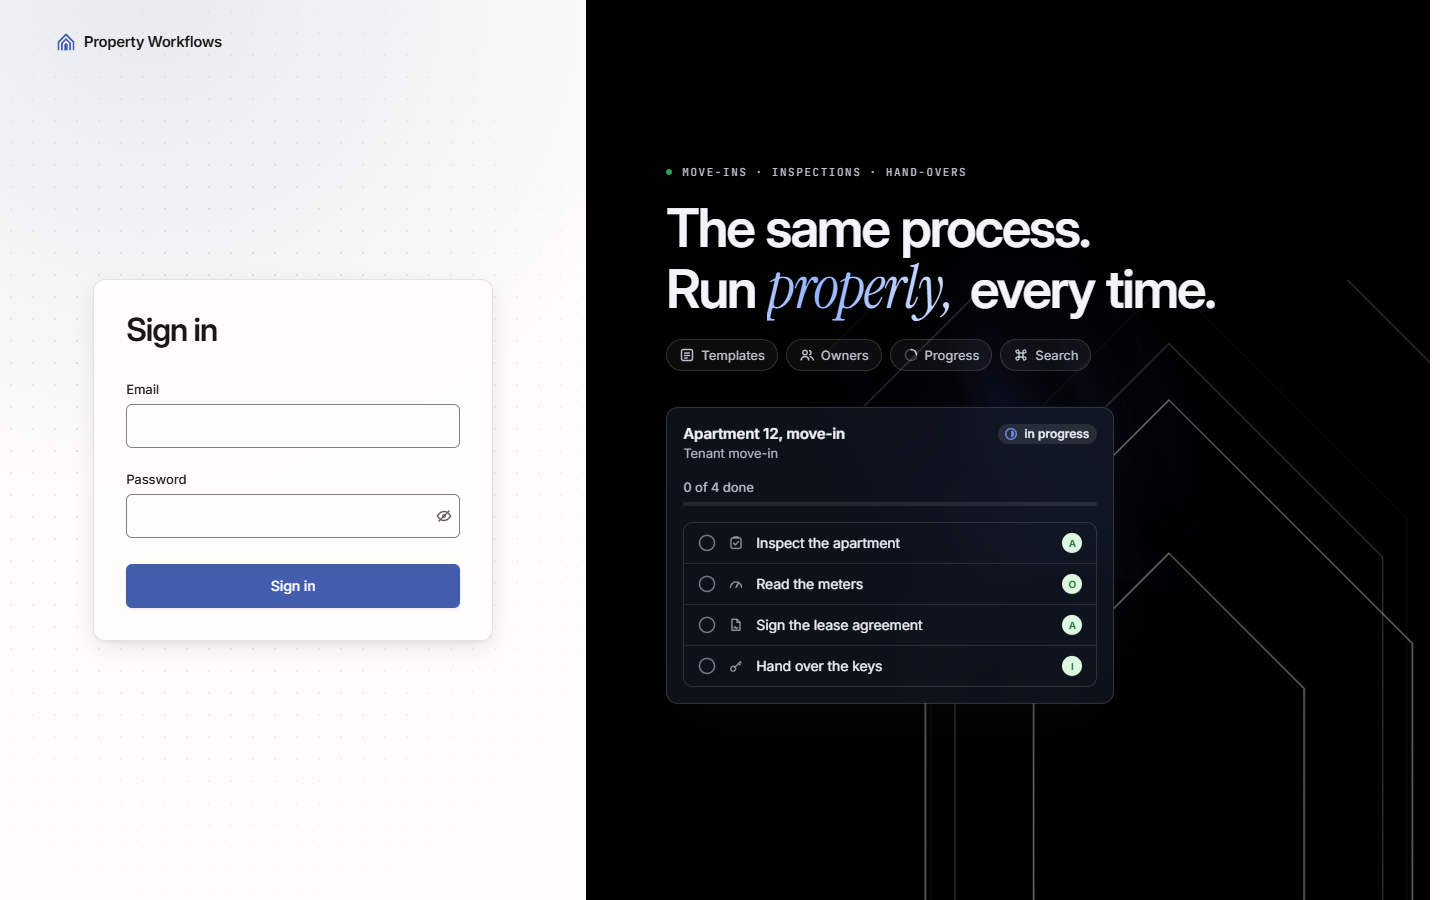
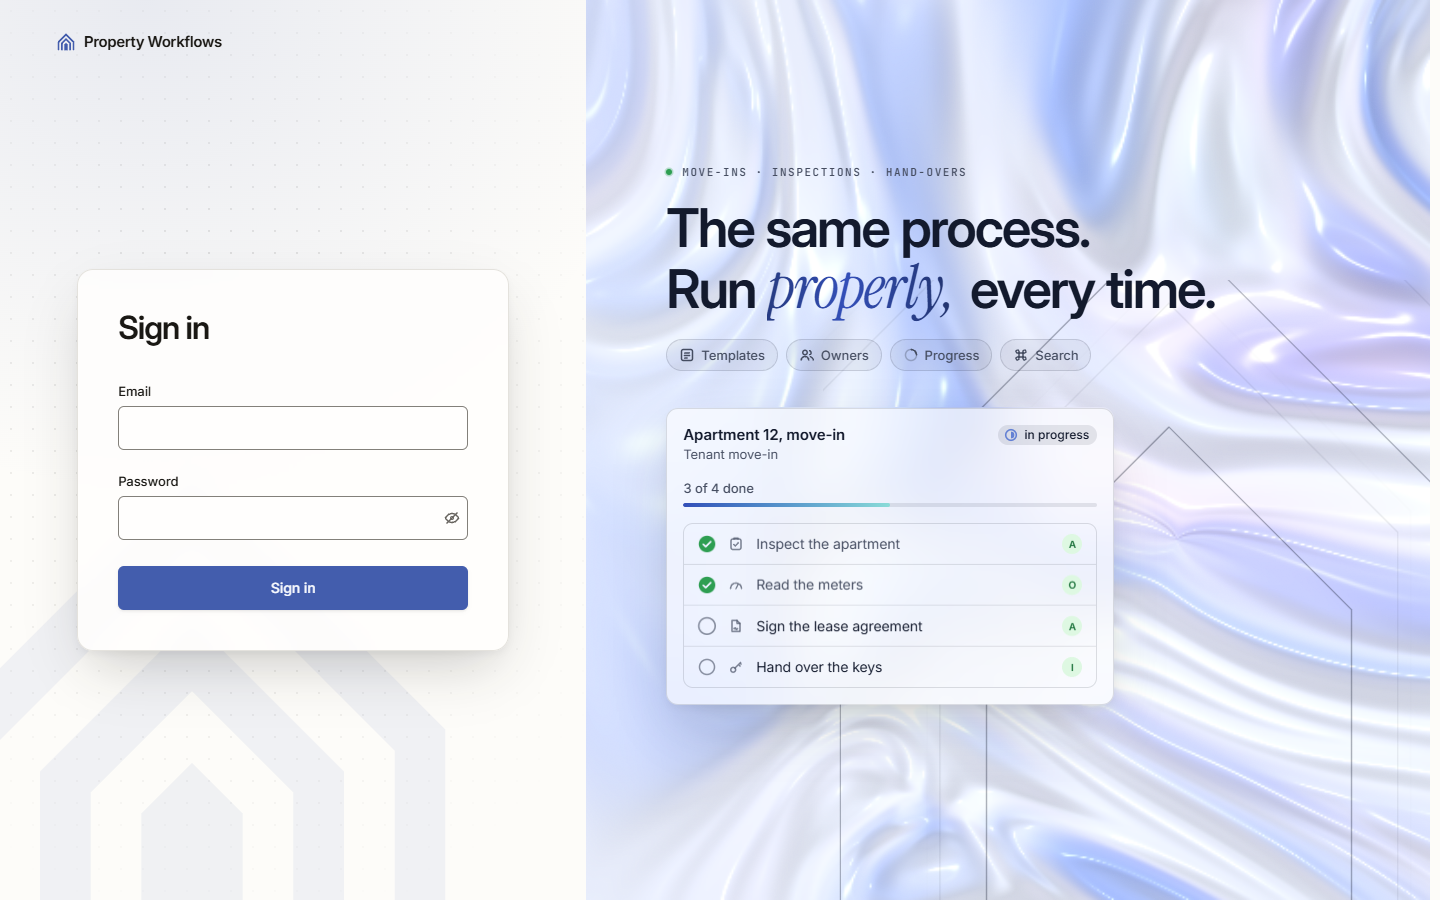
Реалізація: світла сцена входу, водяний знак на лівій панелі, оновлені знімки входу
- токени --stage*: світла тема — світла сцена (пастельні перламутрові хвилі, темний текст), темна — як раніше; контраст у check:contrast
- hero-shader: світлий режим за яскравістю --stage
- вхід: картка 27rem, великий напівпрозорий знак-«відлуння» за карткою
- DESIGN.md: опис сцени й таблиця контрасту

diff --git a/src/components/ui/hero-shader.tsx b/src/components/ui/hero-shader.tsx
@@ -27,6 +27,7 @@ uniform float uIntro;
 uniform vec2 uPtr;
 uniform vec2 uVel;
 uniform vec3 uClick;
+uniform float uLight;
 uniform vec3 uBase;
 uniform vec3 uA;
 uniform vec3 uB;
@@ -108,18 +109,31 @@ void main() {
   vec3 col = mix(uBase, uA, smoothstep(-0.25, 0.85, f) * 0.9);
   col = mix(col, uB, smoothstep(0.05, 0.95, r.x) * 0.5);
   col = mix(col, uC, smoothstep(0.35, 1.1, q.y) * 0.28);
-  col *= 0.42 + 0.95 * diff;
-  col += mix(uA, uC, 0.5) * spec * 0.55;
-  col += uB * rim * 0.35;
+  if (uLight > 0.5) {
+    // Світла сцена: м'яка пастельна «шовкова» поверхня; тінь і відблиск ледь помітні, краї й ліва частина під текстом тануть до основи.
+    col *= 0.84 + 0.22 * diff;
+    col += vec3(1.0) * spec * 0.32;
+    col += uB * rim * 0.12;
+    col += (uA + uB) * 0.5 * 0.05 * smoothstep(0.55, 0.0, length(d));
+    col += vec3(1.0) * ring * 0.25;
+    float vigL = 1.0 - 0.55 * smoothstep(0.3, 1.1, length(uv - vec2(0.55, 0.5)));
+    col = mix(uBase, col, vigL * mix(0.5, 1.0, smoothstep(0.0, 0.85, uv.x)));
+    col = mix(uBase, col, smoothstep(0.0, 1.0, uIntro * 1.6 - length(uv - 0.5) * 1.1));
+  } else {
+    col *= 0.42 + 0.95 * diff;
+    col += mix(uA, uC, 0.5) * spec * 0.55;
+    col += uB * rim * 0.35;
 
-  // Світіння курсора й хвилі
-  col += (uA + uB) * 0.5 * 0.14 * smoothstep(0.55, 0.0, length(d));
-  col += mix(uA, uC, 0.5) * ring * 0.55;
+    // Світіння курсора й хвилі
+    col += (uA + uB) * 0.5 * 0.14 * smoothstep(0.55, 0.0, length(d));
+    col += mix(uA, uC, 0.5) * ring * 0.55;
 
-  // Віньєтка, затемнення під текстом і вступна поява від центру
-  float vig = 1.0 - 0.62 * smoothstep(0.3, 1.1, length(uv - vec2(0.55, 0.5)));
-  col *= vig * mix(0.7, 1.0, smoothstep(0.0, 0.85, uv.x));
-  col *= smoothstep(0.0, 1.0, uIntro * 1.6 - length(uv - 0.5) * 1.1);
+    // Віньєтка, затемнення під текстом і вступна поява від центру
+    float vig = 1.0 - 0.62 * smoothstep(0.3, 1.1, length(uv - vec2(0.55, 0.5)));
+    col *= vig * mix(0.7, 1.0, smoothstep(0.0, 0.85, uv.x));
+    col *= smoothstep(0.0, 1.0, uIntro * 1.6 - length(uv - 0.5) * 1.1);
+
+  }
 
   gl_FragColor = vec4(col, 1.0);
 }
@@ -210,7 +224,9 @@ export function HeroShader({ playing, speed = 1, className }: { playing: boolean
     probe.width = probe.height = 1;
     const ctx = probe.getContext("2d", { willReadFrequently: true });
     if (ctx) {
-      gl.uniform3fv(u("uBase"), readToken("--stage", ctx));
+      const base = readToken("--stage", ctx);
+      gl.uniform1f(u("uLight"), 0.2126 * base[0] + 0.7152 * base[1] + 0.0722 * base[2] > 0.5 ? 1 : 0);
+      gl.uniform3fv(u("uBase"), base);
       gl.uniform3fv(u("uA"), readToken("--stage-glow-1", ctx));
       gl.uniform3fv(u("uB"), readToken("--stage-glow-2", ctx));
       gl.uniform3fv(u("uC"), readToken("--stage-glow-3", ctx));

diff --git a/src/app/globals.css b/src/app/globals.css
@@ -58,17 +58,17 @@
   }
 }
 
-/* Сцена: темна поверхня hero на сторінці входу. В обох темах однакова — це «кінематографічна» вітрина, а не тло роботи. */
+/* Сцена hero входу. Світла тема — світла сцена (бліда лавандова основа, пастельні хвилі, темний текст), темна — кінематографічна. */
 :root {
-  --stage: oklch(0.145 0.035 268);
-  --stage-foreground: oklch(0.97 0.008 268);
-  --stage-muted: oklch(0.80 0.02 268);
-  --stage-card: oklch(0.24 0.035 268 / 0.55);
-  --stage-border: oklch(1 0 0 / 0.14);
-  --stage-accent: oklch(0.78 0.12 268);
-  --stage-glow-1: oklch(0.52 0.18 268);
-  --stage-glow-2: oklch(0.50 0.20 325);
-  --stage-glow-3: oklch(0.60 0.12 192);
+  --stage: oklch(0.955 0.02 268);
+  --stage-foreground: oklch(0.22 0.04 268);
+  --stage-muted: oklch(0.42 0.035 268);
+  --stage-card: oklch(1 0 0 / 0.62);
+  --stage-border: oklch(0.25 0.04 268 / 0.14);
+  --stage-accent: oklch(0.47 0.17 268);
+  --stage-glow-1: oklch(0.74 0.13 268);
+  --stage-glow-2: oklch(0.78 0.12 325);
+  --stage-glow-3: oklch(0.84 0.08 192);
 }
 
 /* --------------------------------------------------------------------------
@@ -231,6 +231,15 @@
 
 
     --weight-body: 420;
+    --stage: oklch(0.145 0.035 268);
+    --stage-foreground: oklch(0.97 0.008 268);
+    --stage-muted: oklch(0.80 0.02 268);
+    --stage-card: oklch(0.24 0.035 268 / 0.55);
+    --stage-border: oklch(1 0 0 / 0.14);
+    --stage-accent: oklch(0.78 0.12 268);
+    --stage-glow-1: oklch(0.52 0.18 268);
+    --stage-glow-2: oklch(0.50 0.20 325);
+    --stage-glow-3: oklch(0.60 0.12 192);
   }
 }
 

diff --git a/src/app/login/page.tsx b/src/app/login/page.tsx
@@ -34,12 +34,17 @@ export default async function LoginPage({ searchParams }: PageProps<"/login">) {
           className="pointer-events-none absolute inset-0 -z-10 bg-[radial-gradient(color-mix(in_oklab,var(--foreground)_14%,transparent)_1px,transparent_1.2px)] [background-size:22px_22px] [mask-image:radial-gradient(75%_60%_at_40%_45%,var(--foreground),transparent)]"
         />
 
+        <LogoMark
+          aria-hidden="true"
+          className="pointer-events-none absolute -bottom-36 -left-28 -z-10 size-[38rem] text-primary/[0.07]"
+        />
+
         <Logo className="animate-ui-reveal" />
 
-        <div className="mx-auto flex w-full max-w-[25rem] flex-1 flex-col justify-center py-10">
+        <div className="mx-auto flex w-full max-w-[27rem] flex-1 flex-col justify-center py-10">
           <div
             style={{ "--reveal-delay": "120ms" } as CSSProperties}
-            className="animate-ui-reveal flex flex-col gap-8 rounded-xl border border-border bg-card/85 p-8 shadow-md backdrop-blur-sm"
+            className="animate-ui-reveal flex flex-col gap-9 rounded-2xl border border-border bg-card/85 p-10 shadow-lg backdrop-blur-sm"
           >
             <h1 className="text-[2rem] font-semibold leading-9 tracking-[-0.03em]">Sign in</h1>
             <LoginForm action={login} serverError={message} />

diff --git a/DESIGN.md b/DESIGN.md
@@ -10,7 +10,7 @@
 
 Інтерфейс для менеджерів і адміністраторів нерухомості: вони щодня запускають шаблони, ведуть задачі й дивляться, де застряг запуск. Основне місце роботи — робочий стіл, тому щільність як у Linear: рядки 32–44 px, контроли 32 px, мало рамок, структура відчувається, а не малюється. Тон: **спокійний, діловий, теплий, уважний**. Нейтралі теплі (відтінок 80–85), акцент — приглушений indigo (відтінок 268), що майже протилежний теплим сірим і тому читається чисто. Уникаємо: кричущих градієнтів на робочих екранах, емодзі як маркерів, сирих кольорів, пастельного «розмитого» тла замість змісту.
 
-Єдиний навмисно «кінематографічний» екран — вхід: темна сцена зі шовковим WebGL-шейдером, «ехо» даху з логотипу і карткою, у якій чекліст сам виконується. Це перша мить продукту. Усередині рух стриманий: 120–240 мс, ease-out, без перельоту на кольорі й прозорості. Сторінка з'являється з легким підйомом (240 мс), лічильники на головній «набираються» від нуля, кільце й смужка прогресу домальовуються, списки з'являються каскадом (перші 8, по 24 мс), `Select` закривається 140 мс. Усе зникає за `prefers-reduced-motion`. Тема — за системою (`prefers-color-scheme`), перемикача немає.
+Єдиний навмисно «кінематографічний» екран — вхід: сцена зі шовковим WebGL-шейдером (світла в світлій темі, темна в темній), «ехо» даху з логотипу і карткою, у якій чекліст сам виконується. Це перша мить продукту. Усередині рух стриманий: 120–240 мс, ease-out, без перельоту на кольорі й прозорості. Сторінка з'являється з легким підйомом (240 мс), лічильники на головній «набираються» від нуля, кільце й смужка прогресу домальовуються, списки з'являються каскадом (перші 8, по 24 мс), `Select` закривається 140 мс. Усе зникає за `prefers-reduced-motion`. Тема — за системою (`prefers-color-scheme`), перемикача немає.
 
 ## 2. Кольори
 
@@ -40,7 +40,7 @@
 | `ai` / `-foreground` / `-mark` | AI-чернетки й підказки (ще не в зрізі) | `0.958 0.03 325` / `0.47 0.17 325` | `0.27 0.07 325` / `0.82 0.12 325` | `bg-ai text-ai-foreground` |
 | `variable` / `-foreground` / `-mark` | змінні запуску {{…}} (ще не в зрізі) | `0.955 0.03 192` / `0.45 0.075 192` | `0.27 0.04 192` / `0.82 0.09 192` | `bg-variable text-variable-foreground` |
 
-Допоміжні токени: `state-hover` (5 % `foreground`), `state-pressed` (8 %), `state-selected` (10 % `primary`) — шар поверх будь-якого тла (`hover:bg-state-hover`); `primary-hover`, `primary-active`, `destructive-hover` — заливки в натиснутому стані; `overlay` — підкладка модалок; `chart-1…5` — графіки. Токени `stage*` — темна сцена входу, однакова в обох темах; ними користується лише hero.
+Допоміжні токени: `state-hover` (5 % `foreground`), `state-pressed` (8 %), `state-selected` (10 % `primary`) — шар поверх будь-якого тла (`hover:bg-state-hover`); `primary-hover`, `primary-active`, `destructive-hover` — заливки в натиснутому стані; `overlay` — підкладка модалок; `chart-1…5` — графіки. Токени `stage*` — сцена входу: у світлій темі світла (бліда лавандова основа, пастельні перламутрові хвилі шейдера, темний текст), у темній — кінематографічна (темна основа, світлий текст); ними користується лише hero. Шейдер читає ці токени й перемикає режим за яскравістю `--stage`.
 
 ### Контраст
 
@@ -74,9 +74,9 @@
 | `ai-foreground` → `ai` | Позначка AI | ≥ 4.5:1 | 6.58:1 | 8.45:1 |
 | `variable-foreground` → `variable` | Чип змінної | ≥ 4.5:1 | 6.35:1 | 8.81:1 |
 | `status-due-soon-foreground` → `background` | Підказка Caps Lock | ≥ 4.5:1 | 6.77:1 | 10.65:1 |
-| `stage-foreground` → `stage` | Заголовок hero входу | ≥ 4.5:1 | 18.17:1 | 18.17:1 |
-| `stage-muted` → `stage` | Підзаголовок hero входу | ≥ 4.5:1 | 10.60:1 | 10.60:1 |
-| `stage-accent` → `stage` | Акцентне слово hero входу | ≥ 4.5:1 | 9.72:1 | 9.72:1 |
+| `stage-foreground` → `stage` | Заголовок hero входу | ≥ 4.5:1 | 15.22:1 | 18.17:1 |
+| `stage-muted` → `stage` | Підзаголовок hero входу | ≥ 4.5:1 | 7.44:1 | 10.60:1 |
+| `stage-accent` → `stage` | Акцентне слово hero входу | ≥ 4.5:1 | 6.25:1 | 9.72:1 |
 | `status-done-mark` → `background` | Іконка «done» | ≥ 3:1 | 3.33:1 | 8.68:1 |
 | `status-overdue-mark` → `background` | Іконка «overdue» | ≥ 3:1 | 3.89:1 | 7.68:1 |
 | `status-progress-mark` → `background` | Іконка «in progress» | ≥ 3:1 | 3.62:1 | 8.08:1 |
